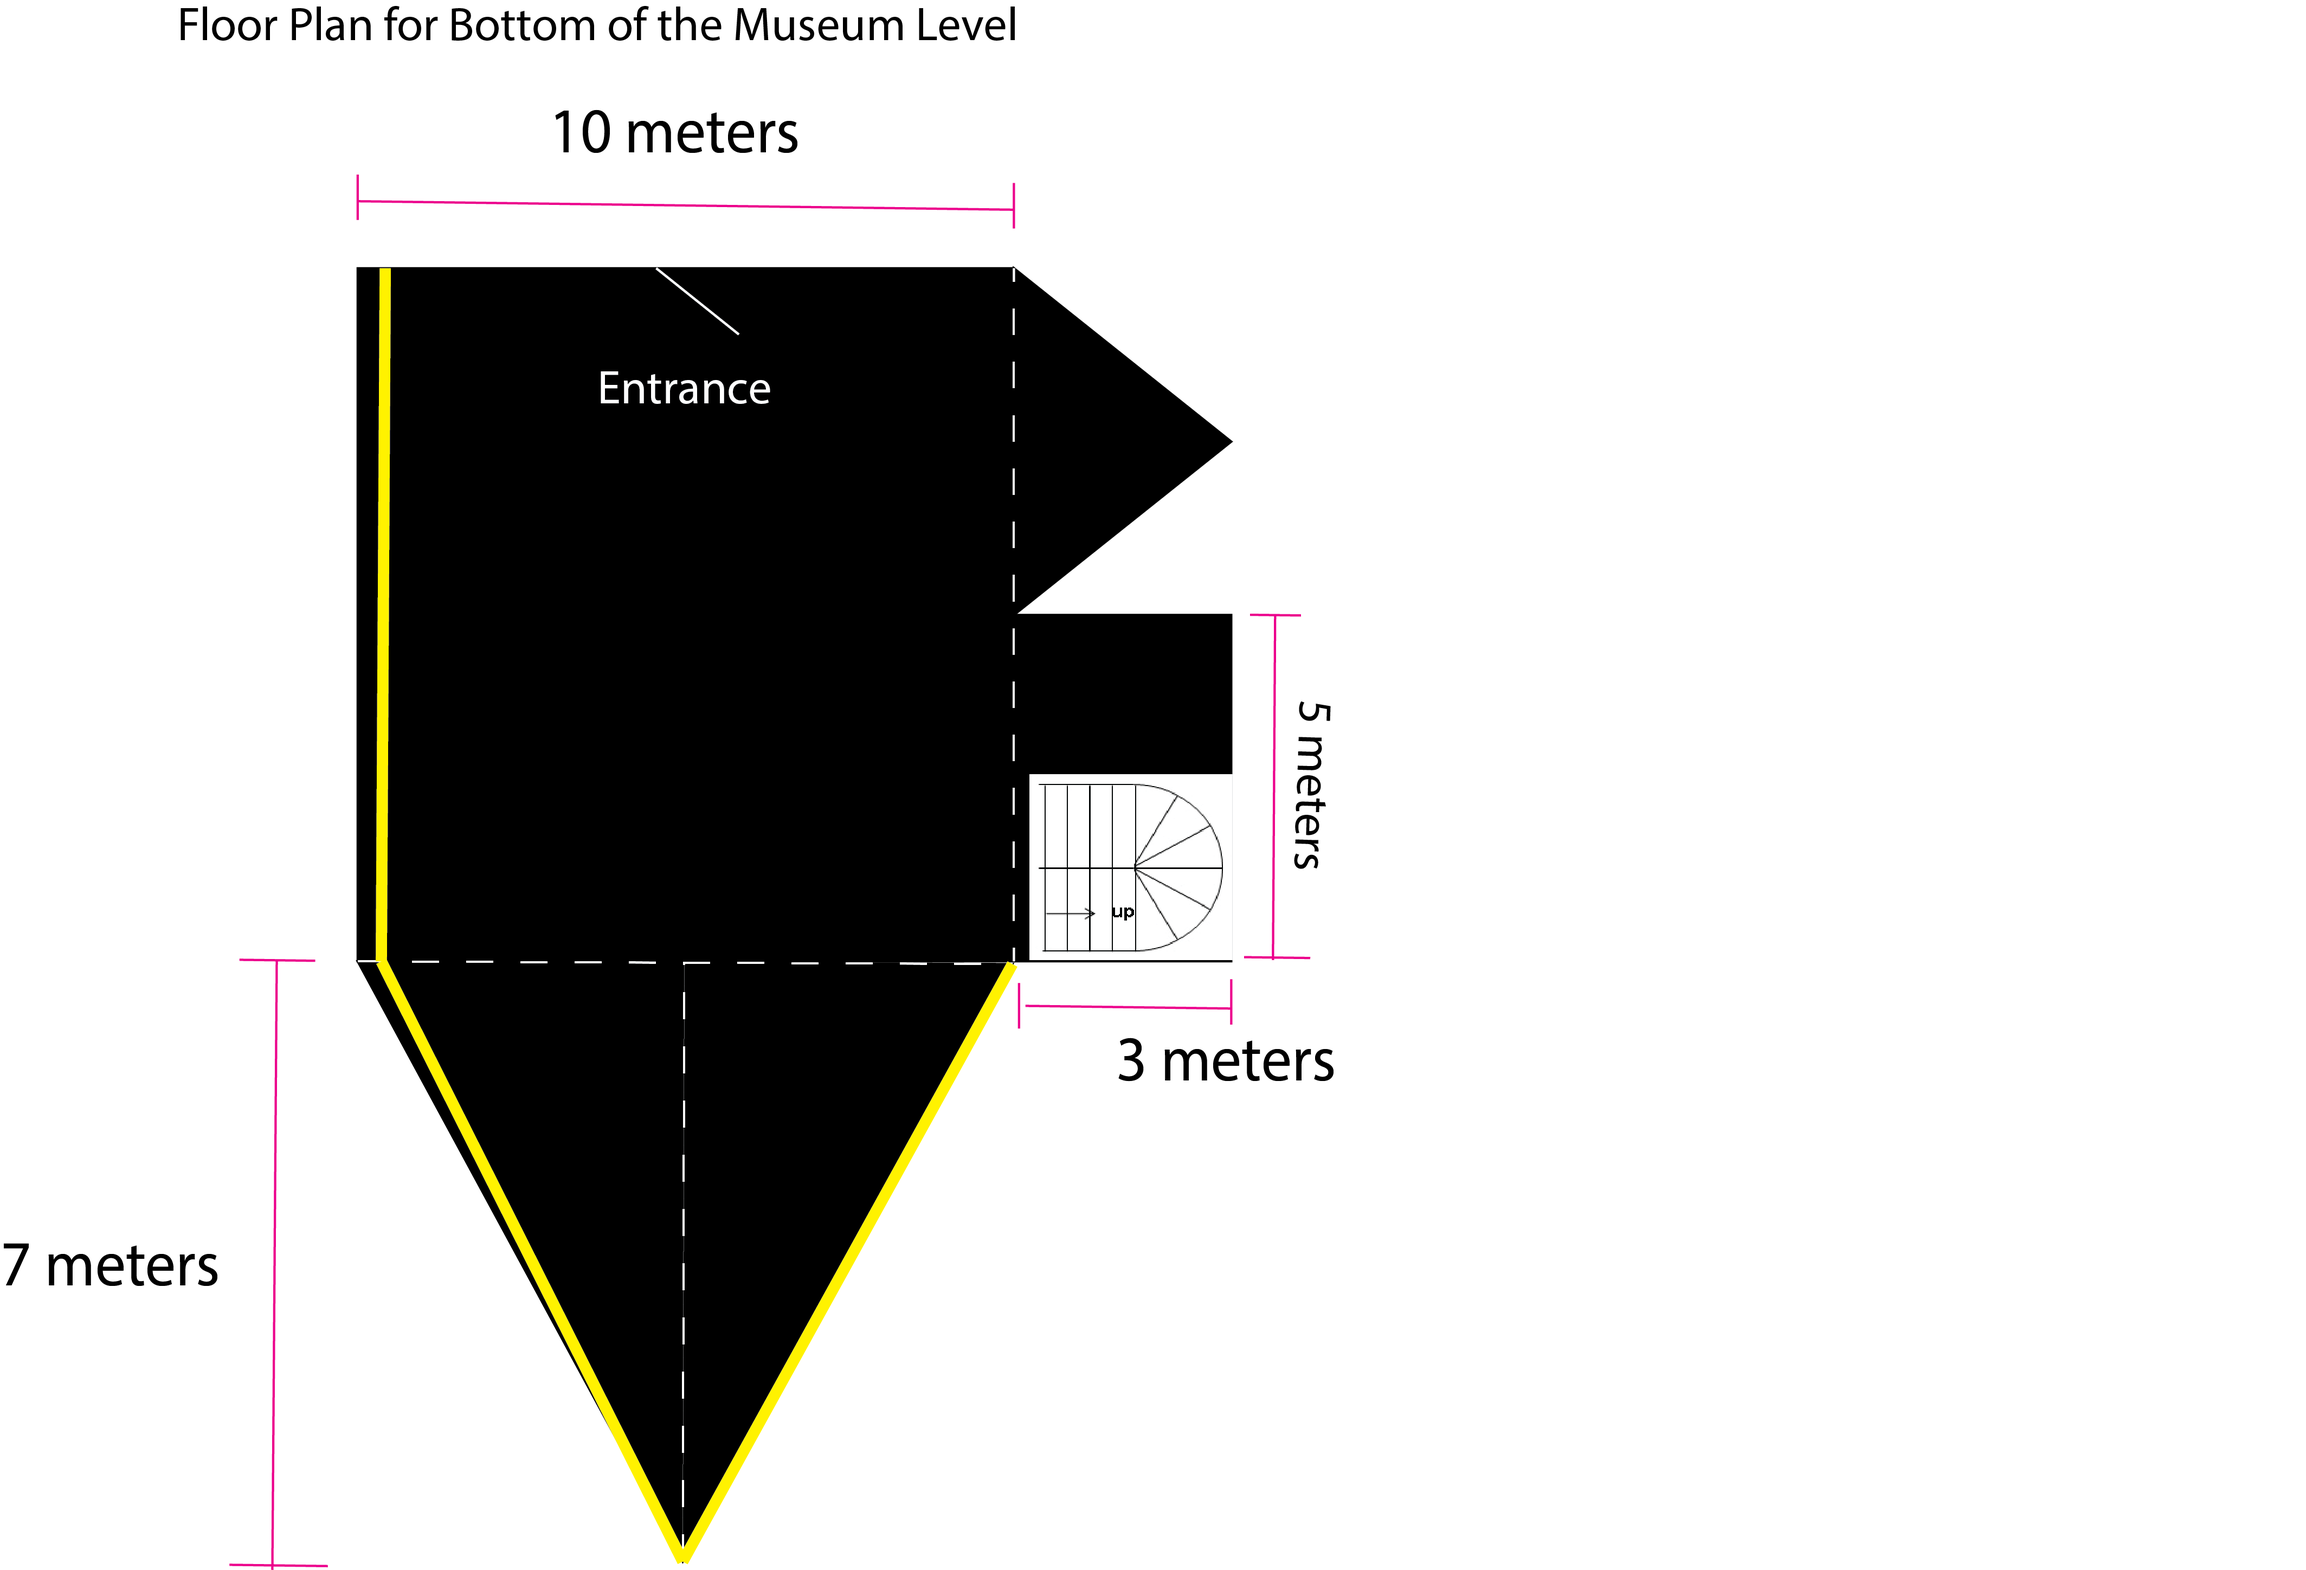
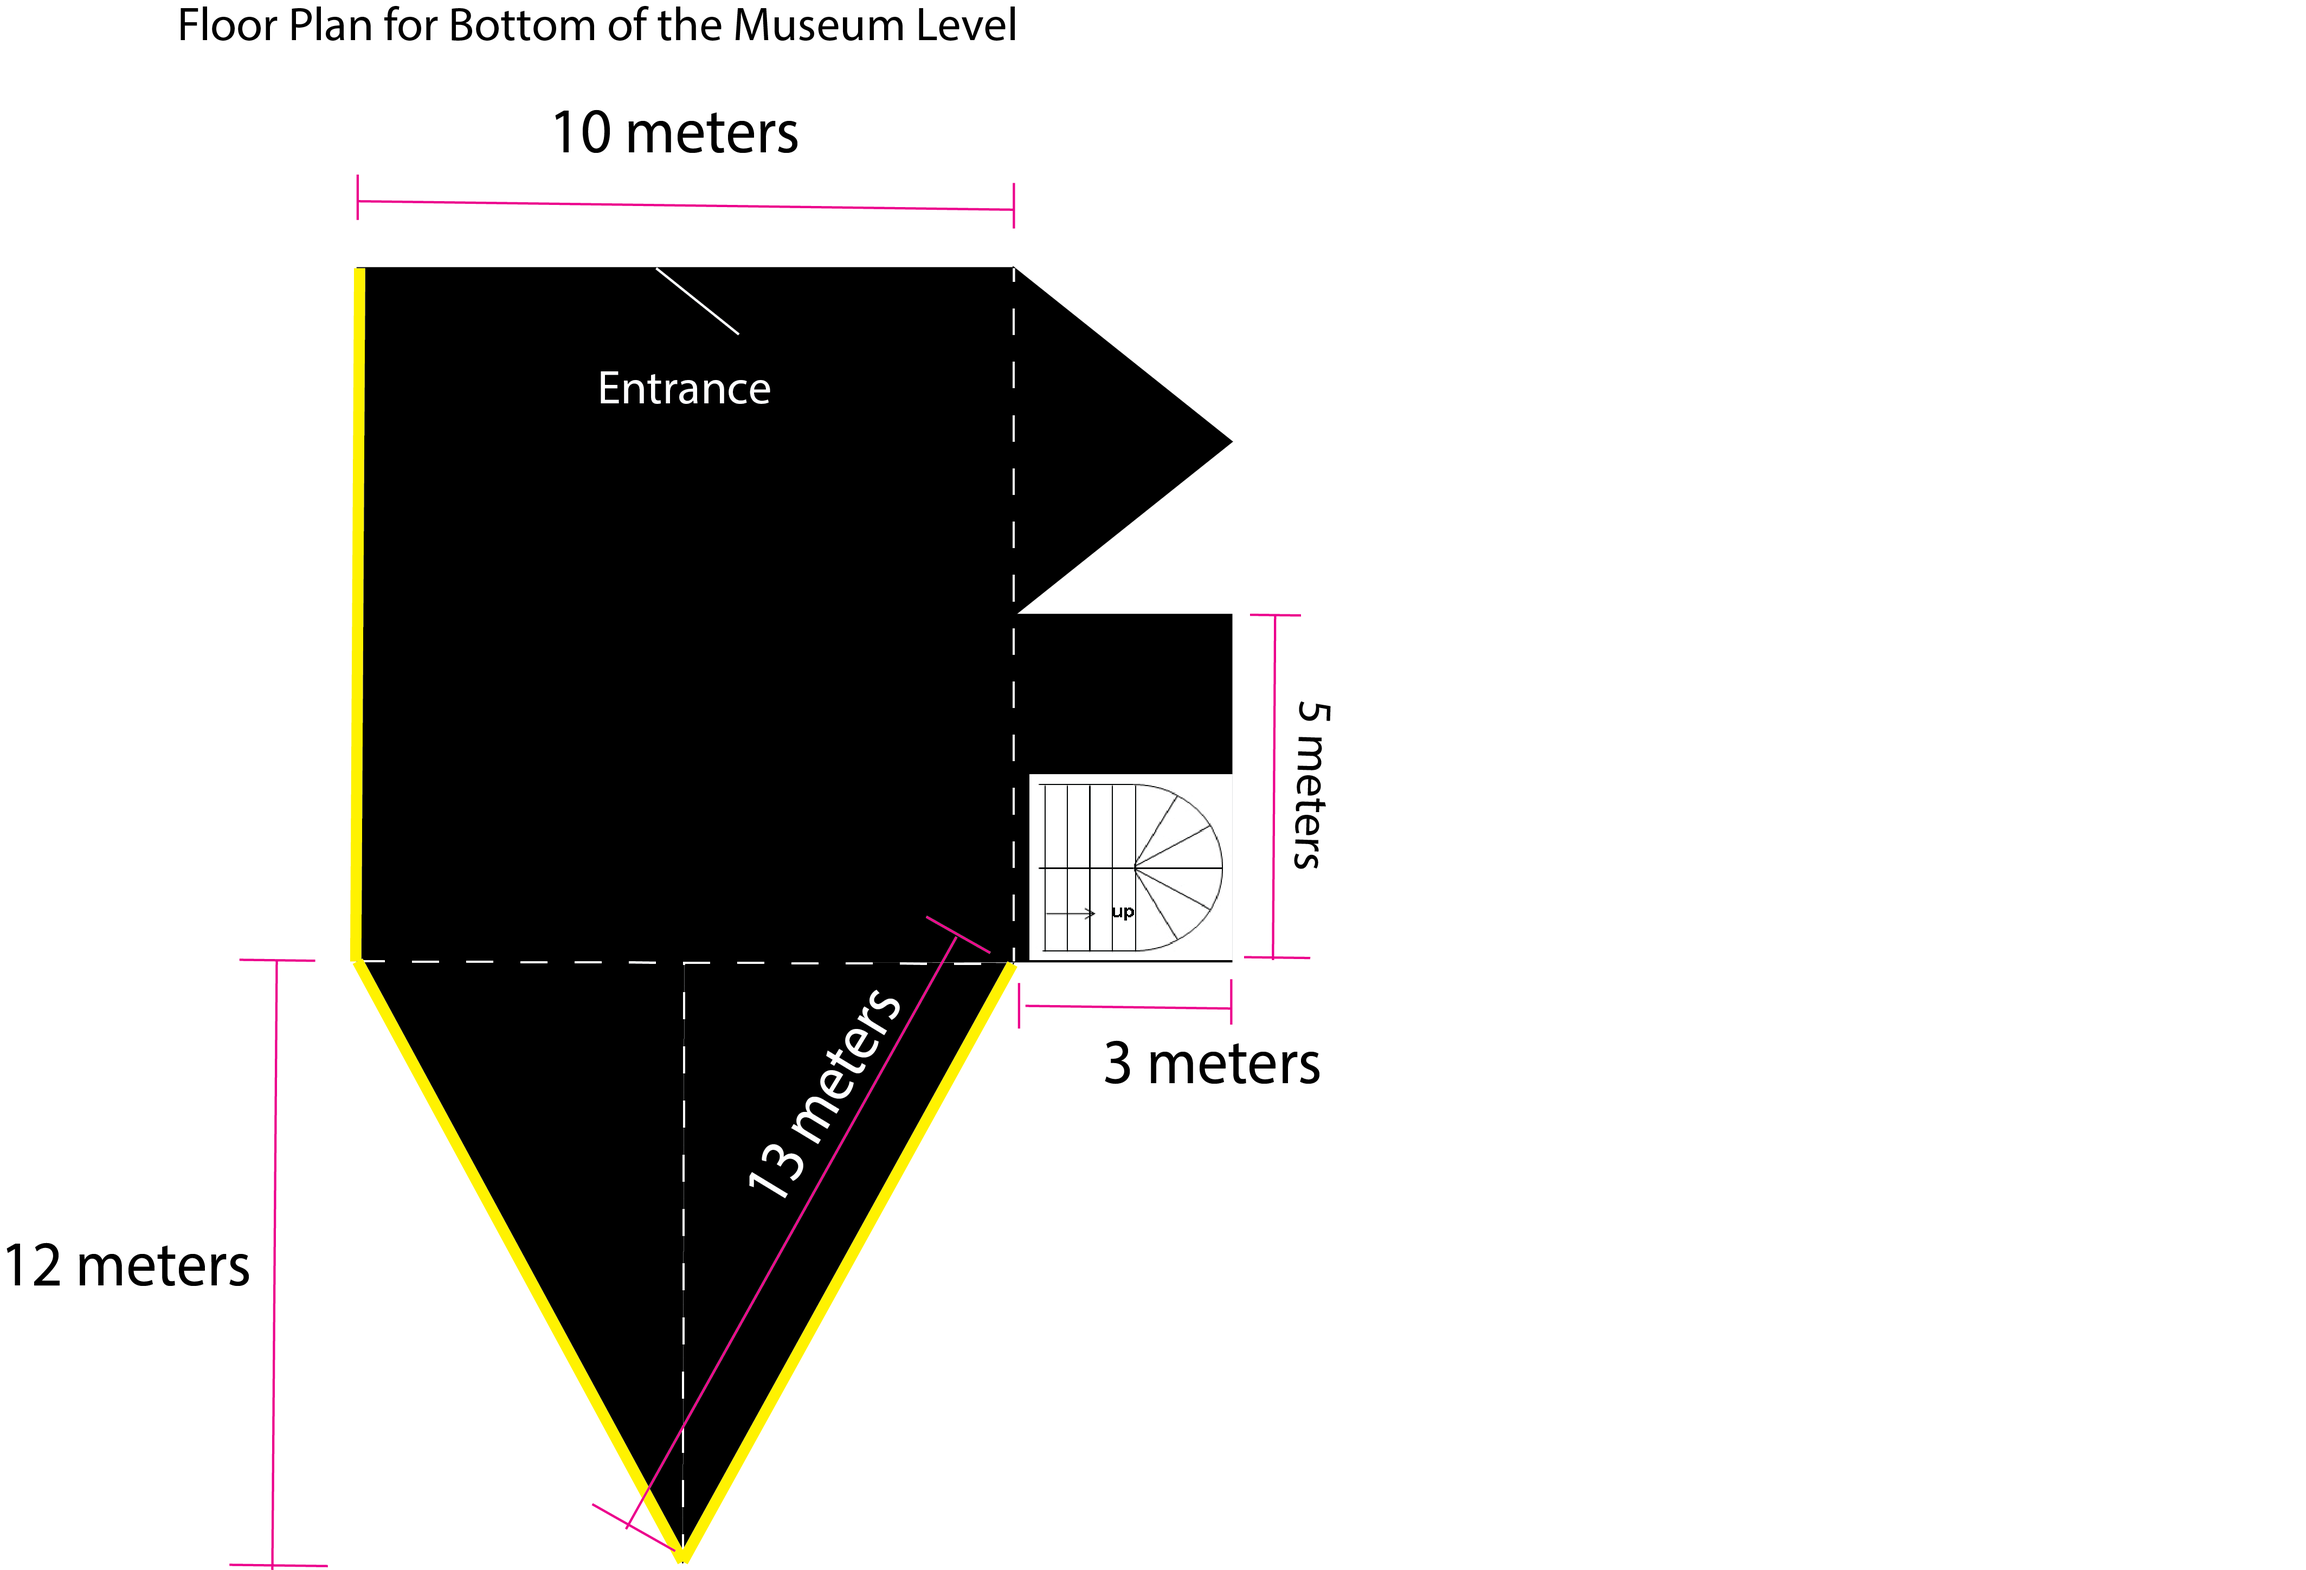
Testing Auto Deploy

diff --git a/heist/team.html b/heist/team.html
@@ -1,51 +1,120 @@
-<!doctype html>
+<!DOCTYPE html>
 
 <html lang="en">
-<head>
-  <meta charset="utf-8">
+  <head>
+    <meta charset="utf-8" />
 
-  <title>Team</title>
-  <!--Google font-->
-  <link
-    href="https://fonts.googleapis.com/css?family=K2D:300,400,500,700,800"
-    rel="stylesheet"
-  />
+    <title>Team</title>
+    <!--Google font-->
+    <link
+      href="https://fonts.googleapis.com/css?family=K2D:300,400,500,700,800"
+      rel="stylesheet"
+    />
 
-  <!-- Bootstrap CSS / Color Scheme -->
-  <link rel="stylesheet" href="../css/bootstrap.css" />
-  <link rel="stylesheet" href="../css/style.css" />
+    <!-- Bootstrap CSS / Color Scheme -->
+    <link rel="stylesheet" href="../css/bootstrap.css" />
+    <link rel="stylesheet" href="../css/style.css" />
 
-  
-  <!--Navigation bar-->
-  <script src="https://code.jquery.com/jquery-1.10.2.js"></script>
+    <!--Navigation bar-->
+    <script src="https://code.jquery.com/jquery-1.10.2.js"></script>
+  </head>
 
-
-</head>
-
-<body>
-  <!--Navigation bar-->
-  <div id="nav-placeholder"></div>
-  <script>
-    $(function () {
-      $("#nav-placeholder").load("nav.html");
-    });
-  </script>
-  <!--end of Navigation bar-->
+  <body>
+    <!--Navigation bar-->
+    <div id="nav-placeholder"></div>
+    <script>
+      $(function () {
+        $("#nav-placeholder").load("nav.html");
+      });
+    </script>
+    <!--end of Navigation bar-->
     <h1>The Great Heist</h1>
-    <p>There are four teammates for this heist. You have to associate them with their respective nicknames, weekday they can work and 
-        their speciality to answer this question: 
+    <p>
+      There are four teammates for this heist. You have to associate them with
+      their respective nicknames, weekday they can work and their specialty in
+      order to setup your team.
     </p>
-<ol>
-  <li>Neither Aaron nor the the safe cracker were called “The Adventurer”</li>
-  <li>Zuber works the day after Hernando and the day before “The Mountain”</li>
-  <li>Either Amira speciality is safe cracking or they are known as “The Wise”</li>
-  <li>The hacker is either Aaron or works on Wednesday</li>
-  <li>Friday and Tuesday weren’t good days for hacking.</li>
-  <li>“The Wise”’s work day was two days after the safecrackers day.</li>
-  <li>“The adventurer” works the day before the electrician.</li>
-</ol>
+    <hr />
+    <div class="row">
+      <div class="col-sm">
+        <ol>
+          <li>
+            Neither Aaron nor the the safe cracker were called “The Adventurer”
+          </li>
+          <li>
+            Zuber works the day after Hernando and the day before “The Mountain”
+          </li>
+          <li>
+            Either Amira specialty is safe cracking or they are known as “The
+            Wise”
+          </li>
+          <li>The hacker is either Aaron or works on Wednesday</li>
+          <li>Friday and Tuesday weren’t good days for hacking.</li>
+          <li>
+            “The Wise”’s work day was two days after the safecrackers day.
+          </li>
+          <li>“The adventurer” works the day before the electrician.</li>
+        </ol>
 
-<img src="../assets/teambox.PNG">
+        <img src="../assets/teambox.PNG" />
 
-</body>
+        <br />
+      </div>
+      <div class="col-sm">
+        <table>
+          <tr>
+            <th>People</th>
+          </tr>
+          <tr>
+            <td>Aaron</td>
+          </tr>
+          <tr>
+            <td>Amira</td>
+          </tr>
+          <tr>
+            <td>Hernando</td>
+          </tr>
+          <tr>
+            <td>Zuber</td>
+          </tr>
+        </table>
+        <br />
+        <table>
+          <tr>
+            <th>Nick Names</th>
+          </tr>
+          <tr>
+            <td>The Wise</td>
+          </tr>
+          <tr>
+            <td>The Adventurer</td>
+          </tr>
+          <tr>
+            <td>The Princess</td>
+          </tr>
+          <tr>
+            <td>The Mountain</td>
+          </tr>
+        </table>
+        <br />
+        <table>
+          <tr>
+            <th>Specialty</th>
+          </tr>
+          <tr>
+            <td>Smooth Talking</td>
+          </tr>
+          <tr>
+            <td>Electronics</td>
+          </tr>
+          <tr>
+            <td>Hacking</td>
+          </tr>
+          <tr>
+            <td>Safe Cracking</td>
+          </tr>
+        </table>
+      </div>
+    </div>
+  </body>
 </html>

diff --git a/heist/floorplan.html b/heist/floorplan.html
@@ -35,12 +35,18 @@
     <p>Below you are given various floor plans for the museum. Each each floor plan you need to answer the central question using what you have learned with geometry.
     </p>
 
-    <h1>Floor Plan 1</h1>
-    <p>Below is the bottom floor of the muesum. You need to answer 2 questions that are necessary for the heist. First, You need the total area of the bottom floor. As you can see the bottom floor is
-        is composed of several triangles and a large square for the entrance along with a side rectangle that holds the stair case the the first floor. Second, you will need to calculate the the total
-        lenght of the yellow line seqment. That line represents the exact path that aren't covered by cameras. This will allow you to get from the entrance to the stairs without detection.
+    <h1>Floor Plan Basement</h1>
+    <p>Below is the bottom floor of the museum. You need to answer 2 questions that are necessary for the heist. First, You need the total area of the bottom floor. As you can see the bottom floor is
+        is composed of several triangles and a large perfect square for the entrance along with a side rectangle that holds the stair case the the first floor. Second, you will need to calculate the the total
+        length of the yellow line segment. That line represents the exact path that aren't covered by cameras. This will allow you to get from the entrance to the stairs without detection.
     </p>
     <img src="../assets/FloorPlan1.png" width="1300" height="1000"/>
+
+    <h1>Floor Plan Level 1</h1>
+    <p>Below is the first floor of the museum. You need to answer one question that is necessary for the heist. You need the total area of the floor. as you can see the bottom floor is composed of
+        several segments. The first room you enter from the stairs is the same size as the room below. The triangle room's sides all have the same length. The long hallway is twice the length and area of the shorter hallway.
+    </p>
+    <img src="../assets/FloorPlan2.png" width="1300" height="1000"/>
 
 </body>
 </html>

diff --git a/heist/safe.html b/heist/safe.html
@@ -55,18 +55,38 @@
         <h1>6 ÷ 2(1+2)</h1>
             <p class="tab">Step 1: 6 / 2(1+2). Simplify (1+2) first which simplifies to 3</p>
             <p class="tab">Step 2: 6/2(3). Simplify 6/2 next which simplifies to 3</p>
-            <p class="tab">Step 3: 3(3). Simplify 3*3 next which simplifes to 9</p>
-            <p class="tab">Combo: 3-3-9</p>
+            <p class="tab">Step 3: 3(3). Simplify 3*3 next which simplifies to 9</p>
+            <p class="tab">3 Number Combo: 3-3-9</p>
         </div>
         <br>
         <div class="groove">
         <p>Problem 1:</p>
         <h1>(19 - 7) ÷ 4 + 11</h1>
+        <p class="tab">3 Number Combo:</p>
         </div>
         <br>
         <div class="groove">
         <p>Problem 2:</p>
         <h1>2(9 - 2 + 3) ÷ 4</h1>
+        <p class="tab">4 Number Combo:</p>
+        </div>
+        <br>
+        <div class="groove">
+        <p>Problem 3:</p>
+        <h1>(31 - 11) ÷ 5 + 2</h1>
+        <p class="tab">3 Number Combo:</p>
+        </div>
+        <br>
+        <div class="groove">
+        <p>Problem 4:</p>
+        <h1>5 × 4 - 2 × (16 ÷ 4) ÷ 2 + 9</h1>
+        <p class="tab">6 Number Combo:</p>
+        </div>
+        <br>
+        <div class="groove">
+        <p>Problem 5:</p>
+        <h1>10 ÷ (20 ÷ 4 × 5 ÷ 5) × 8 - 2</h1>
+        <p class="tab">6 Number Combo:</p>
         </div>
         <script src="../js/safe.js"></script>
     </body>

diff --git a/heist/index.html b/heist/index.html
@@ -18,6 +18,15 @@
   
   <!--Navigation bar-->
   <script src="https://code.jquery.com/jquery-1.10.2.js"></script>
+  <!-- Global site tag (gtag.js) - Google Analytics -->
+  <script async src="https://www.googletagmanager.com/gtag/js?id=G-SX4L7FFL6K"></script>
+  <script>
+    window.dataLayer = window.dataLayer || [];
+    function gtag(){dataLayer.push(arguments);}
+    gtag('js', new Date());
+
+    gtag('config', 'G-SX4L7FFL6K');
+  </script>
 </head>
 
 <body>
@@ -31,8 +40,8 @@
   <!--end of Navigation bar-->
 
     <h1>The Great Heist</h1>
-    <p>You have been selected by a museum to test thier security and legally pull off the heist of the century. It will be 
-        up to build a team, solve mysterys and unlock the safe combos.
+    <p>You have been selected by a museum to test their security and legally pull off the heist of the century. It will be 
+        up to build a team, solve mystery's and unlock the safe combos.
     </p>
 
 </body>

diff --git a/index.html b/index.html
@@ -23,6 +23,15 @@
 
     <!--Navigation bar-->
     <script src="https://code.jquery.com/jquery-1.10.2.js"></script>
+    <!-- Global site tag (gtag.js) - Google Analytics -->
+    <script async src="https://www.googletagmanager.com/gtag/js?id=G-SX4L7FFL6K"></script>
+    <script>
+      window.dataLayer = window.dataLayer || [];
+      function gtag(){dataLayer.push(arguments);}
+      gtag('js', new Date());
+
+      gtag('config', 'G-SX4L7FFL6K');
+    </script>
   </head>
   <body>
     <!--Navigation bar-->

diff --git a/heist/final.html b/heist/final.html
@@ -32,6 +32,10 @@
     </script>
     <!--end of Navigation bar-->
     <h1>The Final Challenge</h1>
+    <p>Using what you have unconcerned you need to answer the three questions below to add to your report to the museum who hired you.</p>
+    <h3>1. What is the hacker's nickname?</h3>
+    <h3>2. Which floor has the biggest area?</h3>
+    <h3>3. What is the safe combo that adds up to 117</h3>
     
 </body>
 </html>
